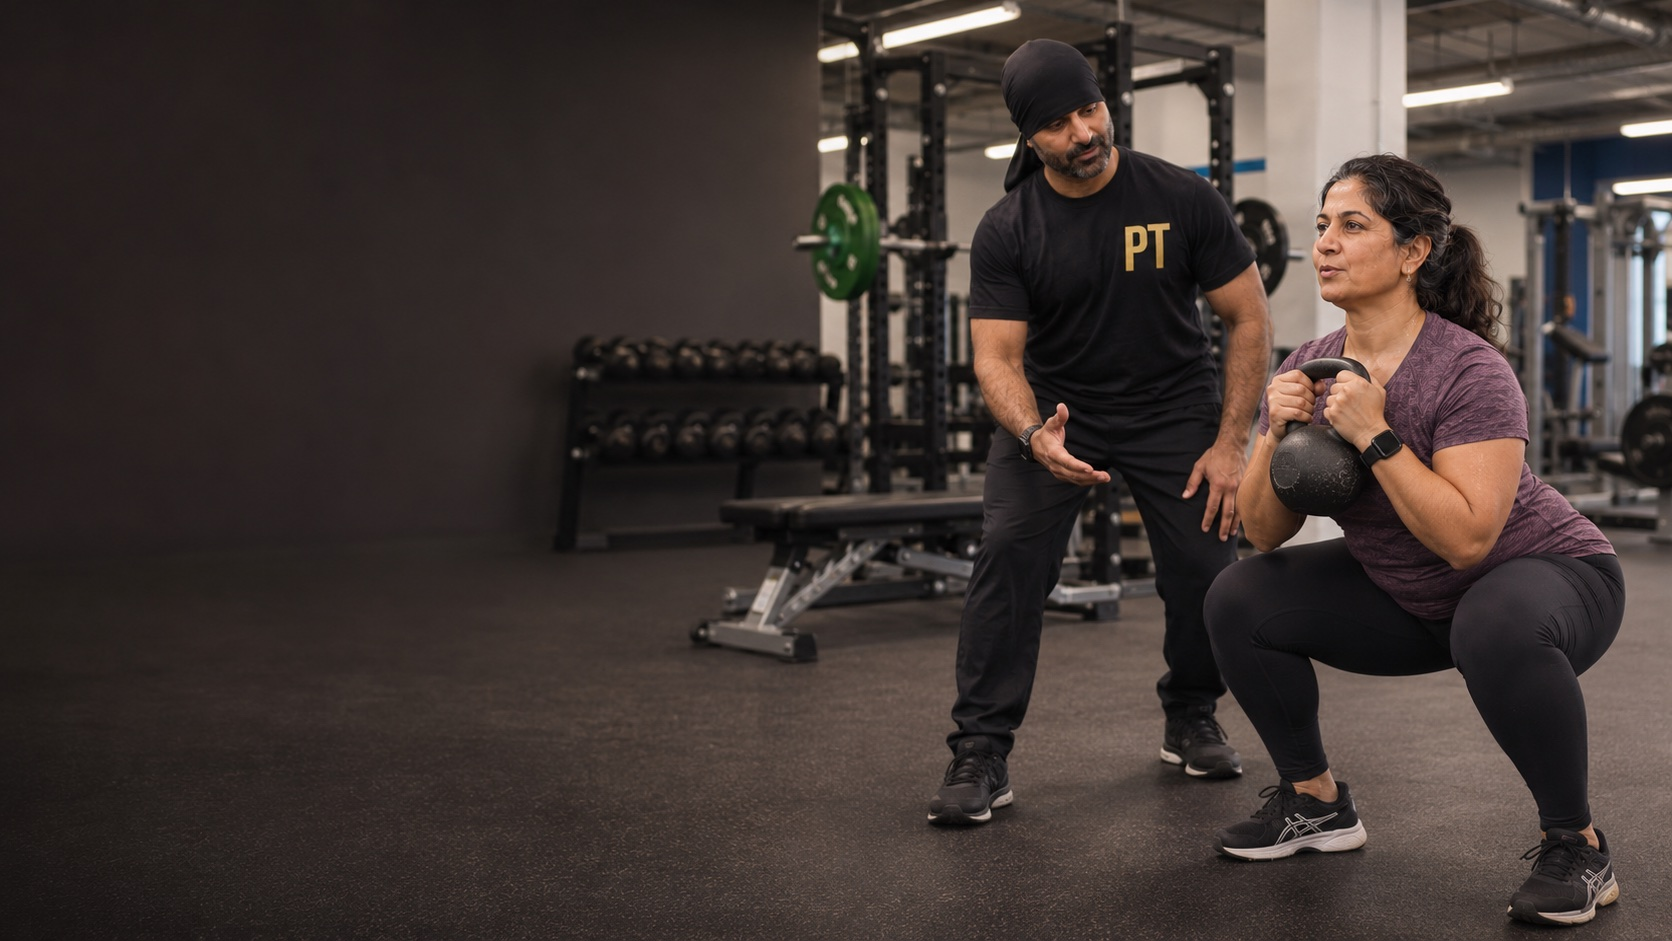
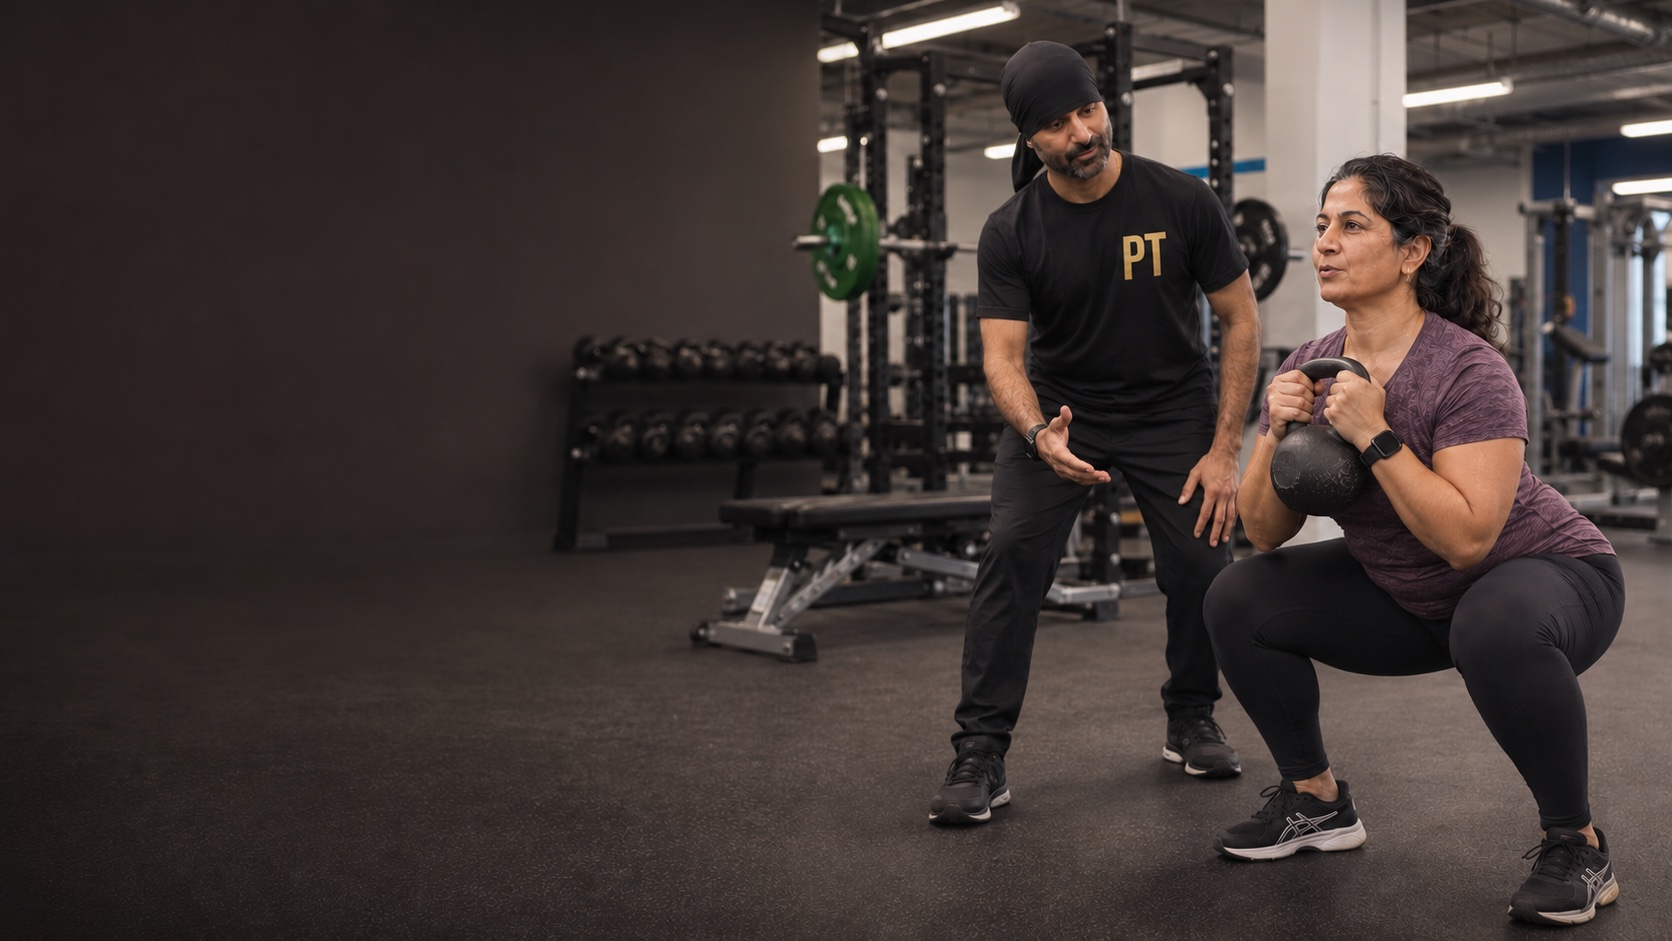
Refine trainer physique in header image
Update the training hero image to better match Jaz’s slimmer build and document the correction prompt used to preserve the scene and composition.

diff --git a/docs/header-training-image.md b/docs/header-training-image.md
@@ -4,6 +4,14 @@ Current web asset: `public/img/header-jaz-training.jpg`, an optimised JPEG gener
 
 The previous `public/img/header-jaz-coaching.jpg` remains available. The website retains its existing header layout, dark overlays, typography and logo treatment.
 
+## Physique correction
+
+The current asset was revised with the built-in image generation tool to match Jaz's slimmer build in the real About Me and programme photographs. The gym scene, client, composition and space for header copy are preserved. This replaces the earlier stocky-build interpretation in the original generation brief below.
+
+### Final edit prompt
+
+Use case: identity-preserve image edit. Asset type: wide 16:9 website hero background. Image 1 is the EDIT TARGET. Image 2 is Jaz's real About Me portrait and image 3 is his real programme photograph; these are identity and physique references. Change ONLY the male trainer in image 1 to faithfully match the slimmer, lean, ordinary build shown in image 3 and his real facial identity in images 2 and 3. Reduce his bulky shoulders, upper arms, chest and overall torso thickness to natural slim proportions; no bodybuilder musculature or exaggerated athletic definition. Preserve his natural age, South Asian facial features, beard, black tied head covering, black gold-PT T-shirt, trousers, watch, attentive expression and coaching pose. Keep the female client, kettlebell, squat pose, gym equipment, background, lighting, camera framing, dark grading and broad left-hand negative space unchanged. Keep both subjects in the right half and preserve the wide aspect ratio. Photorealistic illustrative coaching scene, anatomically natural. No added text, watermark or UI. Save the output image for integration into the website.
+
 ## References
 
 - Existing scene, style and client identity: `public/img/header-jaz-coaching.jpg`
